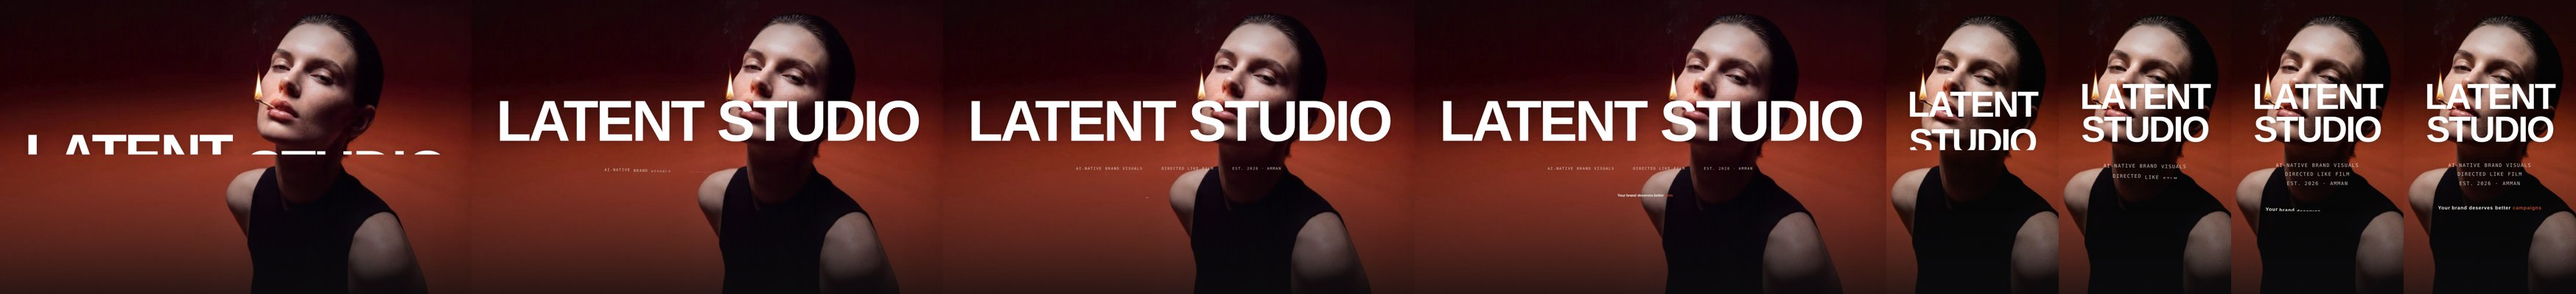
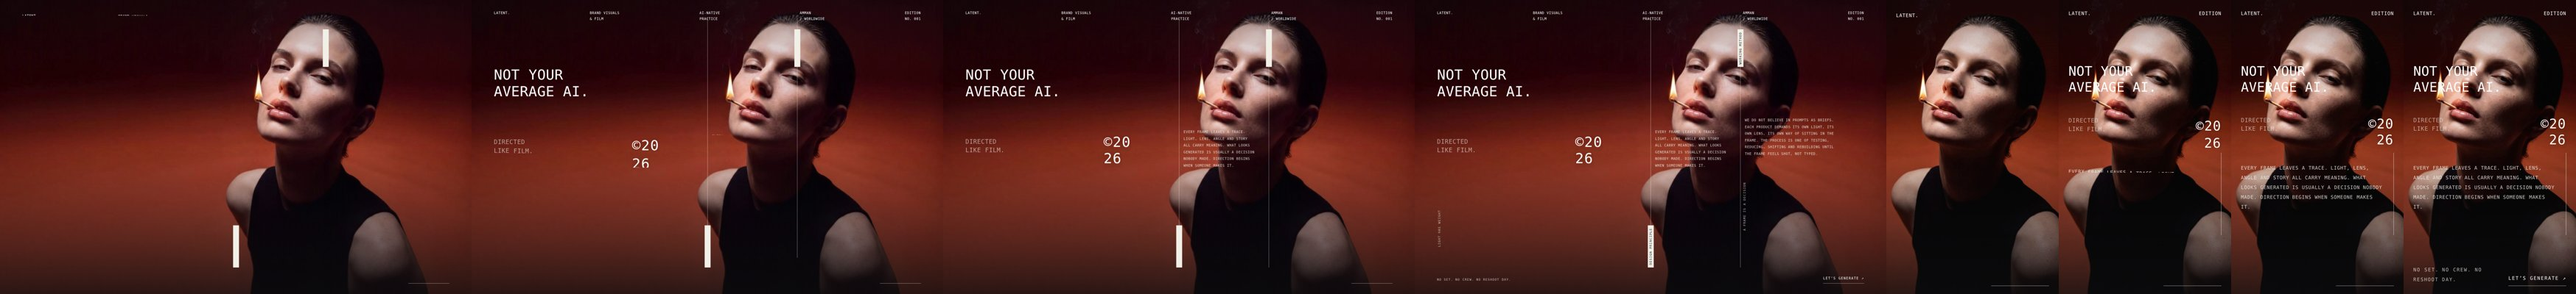
Hero as an editorial plate on D and E
A mono label row across the top, the headline top left, the year over the subject, two columns of small copy split by thin vertical rules with tab labels, notes in the corners and the ask bottom right; every word rises through its mask, the rules draw down. Phones keep the headline, the year, one column and the corner notes.

Claude-Session: https://claude.ai/code/session_0142D8cuVtdJreCuNyu9fMo2

diff --git a/latent-v3d/index.html b/latent-v3d/index.html
@@ -2366,6 +2366,43 @@ html.pg-snap{scroll-snap-type:y proximity}
 }
 .hero .hb-cta.js-pu2{opacity:0;transition:opacity .6s ease calc(var(--d,0s) + .2s)}
 .hero .hb-cta.js-pu2.in{opacity:1}
+/* the hero as an editorial plate */
+.hero .stage.he{--hx:var(--gut);font-family:"IBM Plex Mono",monospace;color:rgba(242,239,231,.92);letter-spacing:.04em;text-transform:uppercase}
+.he > *{position:absolute;margin:0}
+.he-top{left:var(--hx);right:var(--hx);top:clamp(18px,3.6vh,34px);display:flex;justify-content:space-between;gap:12px;font-size:10.5px;line-height:1.35;color:rgba(242,239,231,.7)}
+.he-top span:first-child{color:#fff;font-weight:500}
+.he-head{left:var(--hx);top:23%;font-size:clamp(24px,3vw,46px);line-height:1.02;letter-spacing:.01em;font-weight:500;color:#fff}
+.he-sub{left:var(--hx);top:47%;font-size:clamp(13px,1.3vw,19px);line-height:1.15;color:rgba(242,239,231,.6)}
+.he-year{left:34%;top:46%;font-size:clamp(26px,3vw,44px);line-height:1;letter-spacing:.04em;color:#fff;text-shadow:0 2px 24px rgba(0,0,0,.4)}
+.he-rule{top:6%;bottom:9%;width:1px;background:rgba(242,239,231,.55);transform:scaleY(0);transform-origin:50% 0;transition:transform 1.2s cubic-bezier(.76,0,.24,1) var(--d,0s)}
+.he-rule1{left:50%}.he-rule2{left:69%}
+.he-rule.in{transform:scaleY(1)}
+.he-p{font-size:10.5px;line-height:1.5;color:rgba(242,239,231,.85)}
+.he-p1{left:51%;top:44%;width:15%}
+.he-p2{left:70%;top:40%;width:19%}
+.he-tab{font-size:9.5px;letter-spacing:.14em;color:var(--ink);background:#F2EFE7;padding:8px 4px;writing-mode:vertical-rl;transform:rotate(180deg);line-height:1}
+.he-tab1{left:calc(69% - 8px);top:10%}
+.he-tab2{left:calc(50% - 8px);bottom:9%}
+.he-v{font-size:9.5px;letter-spacing:.14em;writing-mode:vertical-rl;transform:rotate(180deg);color:rgba(242,239,231,.75)}
+.he-v1{left:calc(69% + 6px);top:62%}
+.he-v2{left:var(--hx);bottom:16%}
+.he-bl{left:var(--hx);bottom:clamp(18px,3.6vh,34px);font-size:9.5px;letter-spacing:.14em;color:rgba(242,239,231,.75)}
+.he-br{right:var(--hx);bottom:clamp(18px,3.6vh,34px);font-size:10.5px;letter-spacing:.14em;color:#fff;text-decoration:none;border-bottom:1px solid rgba(242,239,231,.5);padding-bottom:2px}
+.he-br:hover{border-color:#fff}
+.hero .stage.he .hm{vertical-align:baseline}
+@media(max-width:820px){
+  .he-top{font-size:11px}.he-top span:nth-child(2),.he-top span:nth-child(3),.he-top span:nth-child(4){display:none}.he-top br{display:none}
+  .he-head{top:22%;font-size:clamp(26px,7.6vw,34px)}.he-sub{top:40%;font-size:13px}
+  .he-year{left:auto;right:var(--hx);top:40%;font-size:30px;text-align:right}
+  .he-rule1{left:auto;right:var(--hx);top:52%;bottom:20%}.he-rule2,.he-p2,.he-tab1,.he-tab2,.he-v1,.he-v2{display:none}
+  .he-p1{left:var(--hx);right:calc(var(--hx) + 24px);width:auto;top:56%;font-size:11px}
+  .he-bl{font-size:11px;bottom:calc(18px + env(safe-area-inset-bottom));max-width:52%}.he-br{font-size:11px;bottom:calc(18px + env(safe-area-inset-bottom))}
+}
+@media (max-width:1180px) and (min-width:821px){.he-p1{width:16%}.he-p2{width:20%}.he-year{left:32%}}
+@media (prefers-reduced-motion:reduce){.he-rule{transform:none;transition:none}}
+.he-hide{display:none!important}
+.he-p .hm-in,.he-top .hm-in,.he-bl .hm-in{transition-delay:calc(var(--d,0s) + var(--w,0) * .014s)}
+.hero .js-pu2.out .he-p .hm-in{transition-delay:0s}
 </style>
 </head>
 <body>
@@ -2382,12 +2419,21 @@ html.pg-snap{scroll-snap-type:y proximity}
     <video class="pv-v pv-m js-pv-v" muted loop playsinline preload="none" poster="media/03-e05071777b.jpg" data-src="media/04-f0f04687bf.mp4"></video>
     <i class="pv-noise"></i><i class="pv-grad"></i>
   </div>
-  <div class="stage hb">
-    <h1 class="hb-mark js-pu2" style="--d:.1s"><span class="hb-w">Latent</span> <span class="hb-w">Studio</span></h1>
-    <p class="hb-meta js-pu2" style="--d:.55s"><span>AI-native brand visuals</span><span>Directed like film</span><span>Est. 2026 &middot; Amman</span></p>
-    <p class="hs hs-role js-pu2 hb-role" style="--d:.7s">Your brand deserves better <span class="cyc" id="cyc"></span></p>
-    <a class="hb-cta js-pu2" href="#prices" style="--d:.85s"><small>Have something in mind?</small><b>Let&rsquo;s generate <span>&#8599;</span></b></a>
-    <span id="clock" hidden>&mdash;</span>
+  <div class="stage he">
+    <p class="he-top js-pu2" style="--d:.1s"><span>Latent.</span><span>Brand visuals<br>&amp; film</span><span>AI-native<br>practice</span><span>Amman<br>/ Worldwide</span><span>Edition<br>No. 001</span></p>
+    <h1 class="he-head js-pu2" style="--d:.25s">Not your<br>average AI.</h1>
+    <p class="he-sub js-pu2" style="--d:.45s">Directed<br>like film.</p>
+    <p class="he-year js-pu2" style="--d:.6s">&copy;20<br>26</p>
+    <i class="he-rule he-rule1 js-he-rule" style="--d:.5s"></i><i class="he-rule he-rule2 js-he-rule" style="--d:.65s"></i>
+    <p class="he-p he-p1 js-pu2" style="--d:.7s">Every frame leaves a trace. Light, lens, angle and story all carry meaning. What looks generated is usually a decision nobody made. Direction begins when someone makes it.</p>
+    <p class="he-p he-p2 js-pu2" style="--d:.85s">We do not believe in prompts as briefs. Each product demands its own light, its own lens, its own way of sitting in the frame. The process is one of testing, reducing, shifting and rebuilding until the frame feels shot, not typed.</p>
+    <span class="he-tab he-tab1 js-pu2" style="--d:.9s">Working method</span>
+    <span class="he-tab he-tab2 js-pu2" style="--d:1s">Design principle</span>
+    <span class="he-v he-v1 js-pu2" style="--d:.95s">A frame is a decision</span>
+    <span class="he-v he-v2 js-pu2" style="--d:1.05s">Light has weight</span>
+    <p class="he-bl js-pu2" style="--d:1.1s">No set. No crew. No reshoot day.</p>
+    <a class="he-br js-pu2" href="#prices" style="--d:1.15s">Let&rsquo;s generate &#8599;</a>
+    <span class="he-hide"><span class="cyc" id="cyc"></span><span id="clock">&mdash;</span></span>
   </div>
 </section></div>
 
@@ -4249,6 +4295,13 @@ html.pg-snap{scroll-snap-type:y proximity}
     panels.forEach(function(p){ var r = p.getBoundingClientRect(); var on = r.top < vh * .55 && r.bottom > vh * .45; p.classList.toggle("org", on); });
   }
   window.addEventListener("scroll", function(){ if(!ticking){ ticking = true; requestAnimationFrame(frame); } }, { passive:true }); window.addEventListener("resize", frame); window.addEventListener("load", frame); frame();
+})();
+/* the editorial hero: the rules draw when the lines arrive */
+(function(){
+  var rules = [].slice.call(document.querySelectorAll(".js-he-rule")); if(!rules.length) return;
+  var first = document.querySelector(".hero .js-pu2"); if(!first) return;
+  var mo = new MutationObserver(function(){ var on = first.classList.contains("in"); rules.forEach(function(r){ r.classList.toggle("in", on); }); });
+  mo.observe(first, { attributes:true, attributeFilter:["class"] }); rules.forEach(function(r){ r.classList.toggle("in", first.classList.contains("in")); });
 })();
 </script>
 </body>

diff --git a/latent-v3e/index.html b/latent-v3e/index.html
@@ -2366,6 +2366,43 @@ html.pg-snap{scroll-snap-type:y proximity}
 }
 .hero .hb-cta.js-pu2{opacity:0;transition:opacity .6s ease calc(var(--d,0s) + .2s)}
 .hero .hb-cta.js-pu2.in{opacity:1}
+/* the hero as an editorial plate */
+.hero .stage.he{--hx:var(--gut);font-family:"IBM Plex Mono",monospace;color:rgba(242,239,231,.92);letter-spacing:.04em;text-transform:uppercase}
+.he > *{position:absolute;margin:0}
+.he-top{left:var(--hx);right:var(--hx);top:clamp(18px,3.6vh,34px);display:flex;justify-content:space-between;gap:12px;font-size:10.5px;line-height:1.35;color:rgba(242,239,231,.7)}
+.he-top span:first-child{color:#fff;font-weight:500}
+.he-head{left:var(--hx);top:23%;font-size:clamp(24px,3vw,46px);line-height:1.02;letter-spacing:.01em;font-weight:500;color:#fff}
+.he-sub{left:var(--hx);top:47%;font-size:clamp(13px,1.3vw,19px);line-height:1.15;color:rgba(242,239,231,.6)}
+.he-year{left:34%;top:46%;font-size:clamp(26px,3vw,44px);line-height:1;letter-spacing:.04em;color:#fff;text-shadow:0 2px 24px rgba(0,0,0,.4)}
+.he-rule{top:6%;bottom:9%;width:1px;background:rgba(242,239,231,.55);transform:scaleY(0);transform-origin:50% 0;transition:transform 1.2s cubic-bezier(.76,0,.24,1) var(--d,0s)}
+.he-rule1{left:50%}.he-rule2{left:69%}
+.he-rule.in{transform:scaleY(1)}
+.he-p{font-size:10.5px;line-height:1.5;color:rgba(242,239,231,.85)}
+.he-p1{left:51%;top:44%;width:15%}
+.he-p2{left:70%;top:40%;width:19%}
+.he-tab{font-size:9.5px;letter-spacing:.14em;color:var(--ink);background:#F2EFE7;padding:8px 4px;writing-mode:vertical-rl;transform:rotate(180deg);line-height:1}
+.he-tab1{left:calc(69% - 8px);top:10%}
+.he-tab2{left:calc(50% - 8px);bottom:9%}
+.he-v{font-size:9.5px;letter-spacing:.14em;writing-mode:vertical-rl;transform:rotate(180deg);color:rgba(242,239,231,.75)}
+.he-v1{left:calc(69% + 6px);top:62%}
+.he-v2{left:var(--hx);bottom:16%}
+.he-bl{left:var(--hx);bottom:clamp(18px,3.6vh,34px);font-size:9.5px;letter-spacing:.14em;color:rgba(242,239,231,.75)}
+.he-br{right:var(--hx);bottom:clamp(18px,3.6vh,34px);font-size:10.5px;letter-spacing:.14em;color:#fff;text-decoration:none;border-bottom:1px solid rgba(242,239,231,.5);padding-bottom:2px}
+.he-br:hover{border-color:#fff}
+.hero .stage.he .hm{vertical-align:baseline}
+@media(max-width:820px){
+  .he-top{font-size:11px}.he-top span:nth-child(2),.he-top span:nth-child(3),.he-top span:nth-child(4){display:none}.he-top br{display:none}
+  .he-head{top:22%;font-size:clamp(26px,7.6vw,34px)}.he-sub{top:40%;font-size:13px}
+  .he-year{left:auto;right:var(--hx);top:40%;font-size:30px;text-align:right}
+  .he-rule1{left:auto;right:var(--hx);top:52%;bottom:20%}.he-rule2,.he-p2,.he-tab1,.he-tab2,.he-v1,.he-v2{display:none}
+  .he-p1{left:var(--hx);right:calc(var(--hx) + 24px);width:auto;top:56%;font-size:11px}
+  .he-bl{font-size:11px;bottom:calc(18px + env(safe-area-inset-bottom));max-width:52%}.he-br{font-size:11px;bottom:calc(18px + env(safe-area-inset-bottom))}
+}
+@media (max-width:1180px) and (min-width:821px){.he-p1{width:16%}.he-p2{width:20%}.he-year{left:32%}}
+@media (prefers-reduced-motion:reduce){.he-rule{transform:none;transition:none}}
+.he-hide{display:none!important}
+.he-p .hm-in,.he-top .hm-in,.he-bl .hm-in{transition-delay:calc(var(--d,0s) + var(--w,0) * .014s)}
+.hero .js-pu2.out .he-p .hm-in{transition-delay:0s}
 </style>
 </head>
 <body>
@@ -2382,12 +2419,21 @@ html.pg-snap{scroll-snap-type:y proximity}
     <video class="pv-v pv-m js-pv-v" muted loop playsinline preload="none" poster="media/03-e05071777b.jpg" data-src="media/04-f0f04687bf.mp4"></video>
     <i class="pv-noise"></i><i class="pv-grad"></i>
   </div>
-  <div class="stage hb">
-    <h1 class="hb-mark js-pu2" style="--d:.1s"><span class="hb-w">Latent</span> <span class="hb-w">Studio</span></h1>
-    <p class="hb-meta js-pu2" style="--d:.55s"><span>AI-native brand visuals</span><span>Directed like film</span><span>Est. 2026 &middot; Amman</span></p>
-    <p class="hs hs-role js-pu2 hb-role" style="--d:.7s">Your brand deserves better <span class="cyc" id="cyc"></span></p>
-    <a class="hb-cta js-pu2" href="#prices" style="--d:.85s"><small>Have something in mind?</small><b>Let&rsquo;s generate <span>&#8599;</span></b></a>
-    <span id="clock" hidden>&mdash;</span>
+  <div class="stage he">
+    <p class="he-top js-pu2" style="--d:.1s"><span>Latent.</span><span>Brand visuals<br>&amp; film</span><span>AI-native<br>practice</span><span>Amman<br>/ Worldwide</span><span>Edition<br>No. 001</span></p>
+    <h1 class="he-head js-pu2" style="--d:.25s">Not your<br>average AI.</h1>
+    <p class="he-sub js-pu2" style="--d:.45s">Directed<br>like film.</p>
+    <p class="he-year js-pu2" style="--d:.6s">&copy;20<br>26</p>
+    <i class="he-rule he-rule1 js-he-rule" style="--d:.5s"></i><i class="he-rule he-rule2 js-he-rule" style="--d:.65s"></i>
+    <p class="he-p he-p1 js-pu2" style="--d:.7s">Every frame leaves a trace. Light, lens, angle and story all carry meaning. What looks generated is usually a decision nobody made. Direction begins when someone makes it.</p>
+    <p class="he-p he-p2 js-pu2" style="--d:.85s">We do not believe in prompts as briefs. Each product demands its own light, its own lens, its own way of sitting in the frame. The process is one of testing, reducing, shifting and rebuilding until the frame feels shot, not typed.</p>
+    <span class="he-tab he-tab1 js-pu2" style="--d:.9s">Working method</span>
+    <span class="he-tab he-tab2 js-pu2" style="--d:1s">Design principle</span>
+    <span class="he-v he-v1 js-pu2" style="--d:.95s">A frame is a decision</span>
+    <span class="he-v he-v2 js-pu2" style="--d:1.05s">Light has weight</span>
+    <p class="he-bl js-pu2" style="--d:1.1s">No set. No crew. No reshoot day.</p>
+    <a class="he-br js-pu2" href="#prices" style="--d:1.15s">Let&rsquo;s generate &#8599;</a>
+    <span class="he-hide"><span class="cyc" id="cyc"></span><span id="clock">&mdash;</span></span>
   </div>
 </section></div>
 
@@ -4299,6 +4345,13 @@ html.pg-snap{scroll-snap-type:y proximity}
     panels.forEach(function(p){ var r = p.getBoundingClientRect(); var on = r.top < vh * .55 && r.bottom > vh * .45; p.classList.toggle("org", on); });
   }
   window.addEventListener("scroll", function(){ if(!ticking){ ticking = true; requestAnimationFrame(frame); } }, { passive:true }); window.addEventListener("resize", frame); window.addEventListener("load", frame); frame();
+})();
+/* the editorial hero: the rules draw when the lines arrive */
+(function(){
+  var rules = [].slice.call(document.querySelectorAll(".js-he-rule")); if(!rules.length) return;
+  var first = document.querySelector(".hero .js-pu2"); if(!first) return;
+  var mo = new MutationObserver(function(){ var on = first.classList.contains("in"); rules.forEach(function(r){ r.classList.toggle("in", on); }); });
+  mo.observe(first, { attributes:true, attributeFilter:["class"] }); rules.forEach(function(r){ r.classList.toggle("in", first.classList.contains("in")); });
 })();
 </script>
 </body>

diff --git a/latent-v3-src/v3_css8.css b/latent-v3-src/v3_css8.css
@@ -647,3 +647,40 @@ html.pg-snap{scroll-snap-type:y proximity}
 }
 .hero .hb-cta.js-pu2{opacity:0;transition:opacity .6s ease calc(var(--d,0s) + .2s)}
 .hero .hb-cta.js-pu2.in{opacity:1}
+/* the hero as an editorial plate */
+.hero .stage.he{--hx:var(--gut);font-family:"IBM Plex Mono",monospace;color:rgba(242,239,231,.92);letter-spacing:.04em;text-transform:uppercase}
+.he > *{position:absolute;margin:0}
+.he-top{left:var(--hx);right:var(--hx);top:clamp(18px,3.6vh,34px);display:flex;justify-content:space-between;gap:12px;font-size:10.5px;line-height:1.35;color:rgba(242,239,231,.7)}
+.he-top span:first-child{color:#fff;font-weight:500}
+.he-head{left:var(--hx);top:23%;font-size:clamp(24px,3vw,46px);line-height:1.02;letter-spacing:.01em;font-weight:500;color:#fff}
+.he-sub{left:var(--hx);top:47%;font-size:clamp(13px,1.3vw,19px);line-height:1.15;color:rgba(242,239,231,.6)}
+.he-year{left:34%;top:46%;font-size:clamp(26px,3vw,44px);line-height:1;letter-spacing:.04em;color:#fff;text-shadow:0 2px 24px rgba(0,0,0,.4)}
+.he-rule{top:6%;bottom:9%;width:1px;background:rgba(242,239,231,.55);transform:scaleY(0);transform-origin:50% 0;transition:transform 1.2s cubic-bezier(.76,0,.24,1) var(--d,0s)}
+.he-rule1{left:50%}.he-rule2{left:69%}
+.he-rule.in{transform:scaleY(1)}
+.he-p{font-size:10.5px;line-height:1.5;color:rgba(242,239,231,.85)}
+.he-p1{left:51%;top:44%;width:15%}
+.he-p2{left:70%;top:40%;width:19%}
+.he-tab{font-size:9.5px;letter-spacing:.14em;color:var(--ink);background:#F2EFE7;padding:8px 4px;writing-mode:vertical-rl;transform:rotate(180deg);line-height:1}
+.he-tab1{left:calc(69% - 8px);top:10%}
+.he-tab2{left:calc(50% - 8px);bottom:9%}
+.he-v{font-size:9.5px;letter-spacing:.14em;writing-mode:vertical-rl;transform:rotate(180deg);color:rgba(242,239,231,.75)}
+.he-v1{left:calc(69% + 6px);top:62%}
+.he-v2{left:var(--hx);bottom:16%}
+.he-bl{left:var(--hx);bottom:clamp(18px,3.6vh,34px);font-size:9.5px;letter-spacing:.14em;color:rgba(242,239,231,.75)}
+.he-br{right:var(--hx);bottom:clamp(18px,3.6vh,34px);font-size:10.5px;letter-spacing:.14em;color:#fff;text-decoration:none;border-bottom:1px solid rgba(242,239,231,.5);padding-bottom:2px}
+.he-br:hover{border-color:#fff}
+.hero .stage.he .hm{vertical-align:baseline}
+@media(max-width:820px){
+  .he-top{font-size:11px}.he-top span:nth-child(2),.he-top span:nth-child(3),.he-top span:nth-child(4){display:none}.he-top br{display:none}
+  .he-head{top:22%;font-size:clamp(26px,7.6vw,34px)}.he-sub{top:40%;font-size:13px}
+  .he-year{left:auto;right:var(--hx);top:40%;font-size:30px;text-align:right}
+  .he-rule1{left:auto;right:var(--hx);top:52%;bottom:20%}.he-rule2,.he-p2,.he-tab1,.he-tab2,.he-v1,.he-v2{display:none}
+  .he-p1{left:var(--hx);right:calc(var(--hx) + 24px);width:auto;top:56%;font-size:11px}
+  .he-bl{font-size:11px;bottom:calc(18px + env(safe-area-inset-bottom));max-width:52%}.he-br{font-size:11px;bottom:calc(18px + env(safe-area-inset-bottom))}
+}
+@media (max-width:1180px) and (min-width:821px){.he-p1{width:16%}.he-p2{width:20%}.he-year{left:32%}}
+@media (prefers-reduced-motion:reduce){.he-rule{transform:none;transition:none}}
+.he-hide{display:none!important}
+.he-p .hm-in,.he-top .hm-in,.he-bl .hm-in{transition-delay:calc(var(--d,0s) + var(--w,0) * .014s)}
+.hero .js-pu2.out .he-p .hm-in{transition-delay:0s}

diff --git a/latent-v3-src/v3_cases2.js b/latent-v3-src/v3_cases2.js
@@ -556,3 +556,10 @@
   }
   window.addEventListener("scroll", function(){ if(!ticking){ ticking = true; requestAnimationFrame(frame); } }, { passive:true }); window.addEventListener("resize", frame); window.addEventListener("load", frame); frame();
 })();
+/* the editorial hero: the rules draw when the lines arrive */
+(function(){
+  var rules = [].slice.call(document.querySelectorAll(".js-he-rule")); if(!rules.length) return;
+  var first = document.querySelector(".hero .js-pu2"); if(!first) return;
+  var mo = new MutationObserver(function(){ var on = first.classList.contains("in"); rules.forEach(function(r){ r.classList.toggle("in", on); }); });
+  mo.observe(first, { attributes:true, attributeFilter:["class"] }); rules.forEach(function(r){ r.classList.toggle("in", first.classList.contains("in")); });
+})();

diff --git a/latent-v3-src/v3_hero_edit.py b/latent-v3-src/v3_hero_edit.py
@@ -1,0 +1,21 @@
+# ---- the hero as an editorial plate (HEROTXT=edit): a mono label row across the top, the headline top left, the
+#      year over the subject, two columns of small copy split by thin vertical rules with tab labels, notes in the
+#      corners; every word rises through its line mask, the rules draw down. ----
+_hs=s.index('<div class="stage">', s.index('<section class="hero')); _he=s.index('</div>', _hs)+len('</div>')
+_edit='''<div class="stage he">
+    <p class="he-top js-pu2" style="--d:.1s"><span>Latent.</span><span>Brand visuals<br>&amp; film</span><span>AI-native<br>practice</span><span>Amman<br>/ Worldwide</span><span>Edition<br>No. 001</span></p>
+    <h1 class="he-head js-pu2" style="--d:.25s">Not your<br>average AI.</h1>
+    <p class="he-sub js-pu2" style="--d:.45s">Directed<br>like film.</p>
+    <p class="he-year js-pu2" style="--d:.6s">&copy;20<br>26</p>
+    <i class="he-rule he-rule1 js-he-rule" style="--d:.5s"></i><i class="he-rule he-rule2 js-he-rule" style="--d:.65s"></i>
+    <p class="he-p he-p1 js-pu2" style="--d:.7s">Every frame leaves a trace. Light, lens, angle and story all carry meaning. What looks generated is usually a decision nobody made. Direction begins when someone makes it.</p>
+    <p class="he-p he-p2 js-pu2" style="--d:.85s">We do not believe in prompts as briefs. Each product demands its own light, its own lens, its own way of sitting in the frame. The process is one of testing, reducing, shifting and rebuilding until the frame feels shot, not typed.</p>
+    <span class="he-tab he-tab1 js-pu2" style="--d:.9s">Working method</span>
+    <span class="he-tab he-tab2 js-pu2" style="--d:1s">Design principle</span>
+    <span class="he-v he-v1 js-pu2" style="--d:.95s">A frame is a decision</span>
+    <span class="he-v he-v2 js-pu2" style="--d:1.05s">Light has weight</span>
+    <p class="he-bl js-pu2" style="--d:1.1s">No set. No crew. No reshoot day.</p>
+    <a class="he-br js-pu2" href="#prices" style="--d:1.15s">Let&rsquo;s generate &#8599;</a>
+    <span class="he-hide"><span class="cyc" id="cyc"></span><span id="clock">&mdash;</span></span>
+  </div>'''
+s=s[:_hs]+_edit+s[_he:]

diff --git a/latent-v3-src/v3_cases2.py b/latent-v3-src/v3_cases2.py
@@ -68,3 +68,4 @@ s=s.replace('<section class="sec dark method wipe" id="method" style="--prev:var
 s=s.replace('</body>', '<script>\n'+open(SP+'v3_cases2.js').read()+'</script>\n</body>', 1)
 _j=s.rfind('</style>'); s=s[:_j]+open(SP+'v3_css8.css').read()+s[_j:]
 if os.environ.get('HEROTXT')=='mark': exec(open(SP+'v3_hero_mark.py').read())
+if os.environ.get('HEROTXT')=='edit': exec(open(SP+'v3_hero_edit.py').read())
